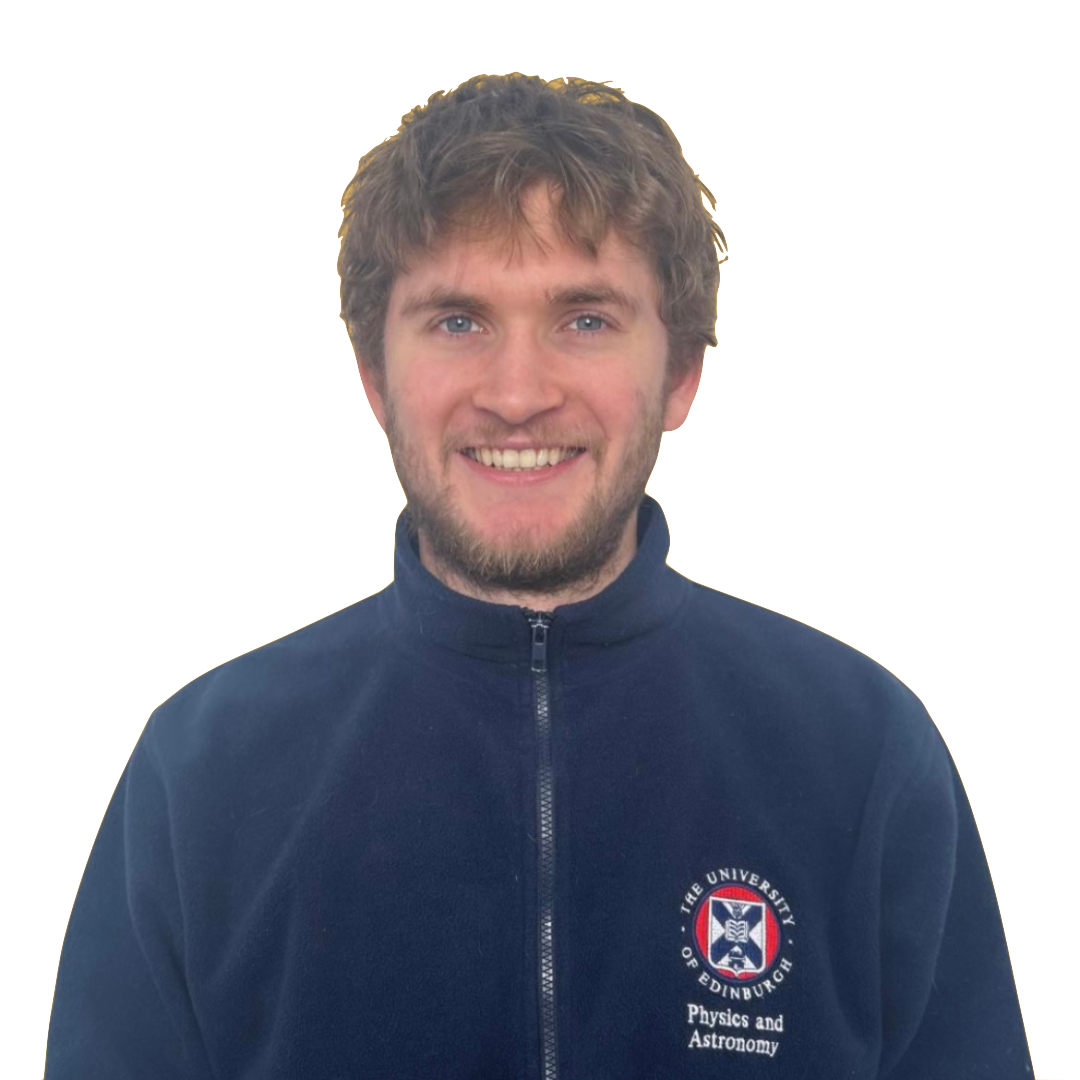
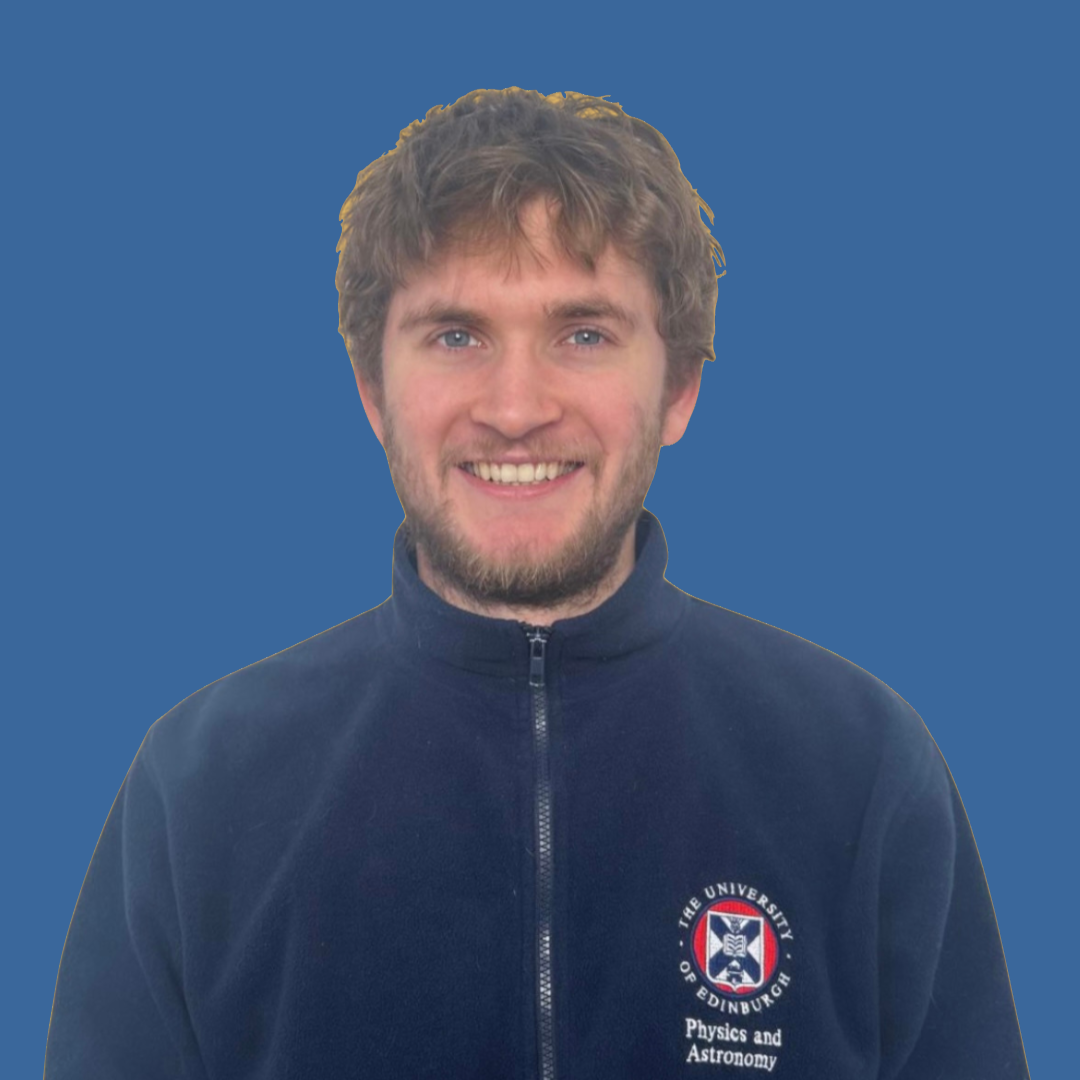
flesh out

diff --git a/publications.md b/publications.md
@@ -4,9 +4,15 @@ title: Publications
 permalink: /publications/
 ---
 
-### First author
+<table>
+<tr>
+<td style="padding-right: 20px;" valign="middle">
+    <img src="../images/page1.png" width="300" alt="Paper figure">
+</td>
 
-*PRIMER and JADES reveal an abundance of massive quiescent galaxies at 2 < z < 5* ([Stevenson et al. 2026](https://ui.adsabs.harvard.edu/abs/2026MNRAS.545f2087S/abstract))
-
-### Co-author
-
+<td valign="middle">
+    <strong>PRIMER and JADES reveal an abundance of massive quiescent galaxies at 2 &lt; z &lt; 5</strong>
+    (<a href="https://ui.adsabs.harvard.edu/abs/2026MNRAS.545f2087S/abstract">Stevenson et al. 2026</a>)
+</td>
+</tr>
+</table>

diff --git a/index.md b/index.md
@@ -1,13 +1,14 @@
 ---
-# Feel free to add content and custom Front Matter to this file.
-# To modify the layout, see https://jekyllrb.com/docs/themes/#overriding-theme-defaults
-
 layout: home
 ---
 
-<img src="../images/alligan.jpg">
+<img src="/images/alligan.jpg" alt="Banner image" style="width:100%;">
 
-<img align="left" src="../images/headshot.png" width="200" height="200">
+<div style="text-align:center; margin-top: 30px;">
+    <img src="/images/headshot.png" width="250" height="250" alt="Headshot" style="border-radius: 50%; border: 3px solid #eee; box-shadow: 0 4px 10px rgba(0,0,0,0.15);"
+>
 
-Welcome to my homepage, here you can learn a little bit about me, professionally or otherwise, and see what I am currently up to. 
-
+    <p style="margin-top: 25px;">
+        Welcome to my homepage. Explore my research, publications, projects, and interests — both professional and personal.
+    </p>
+</div>

diff --git a/about.md b/about.md
@@ -7,11 +7,14 @@ permalink: /about/
 
 I am a PhD student studying astrophysics at the University of Edinburgh, with an expected completion date of August 2028. I am originally from Edinburgh, having grown up in the surrounding countryside.
 
-My research focuses on the origins of massive galaxies, particulary from an observational perspective via JWST and ALMA, and is supervised by Dr. Adam Carnall.
+My research explores the formation and evolution of massive galaxies through deep observations with the James Webb Space Telescope (*JWST*) and the Atacama Large Millimeter/submillimeter Array (ALMA), under the supervision of Dr. Adam Carnall.
+
+<img src="../images/uds.png">
 
 <br>
 
 ---
+
 <br>
 
 Publications: [NADA ADS](https://ui.adsabs.harvard.edu/search/fq=%7B!type%3Daqp%20v%3D%24fq_database%7D&fq_database=(database%3Aastronomy%20OR%20database%3Aphysics)&q=%20author%3A%22Stevenson%2C%20Struan%22&sort=date%20desc%2C%20bibcode%20desc&p_=0)